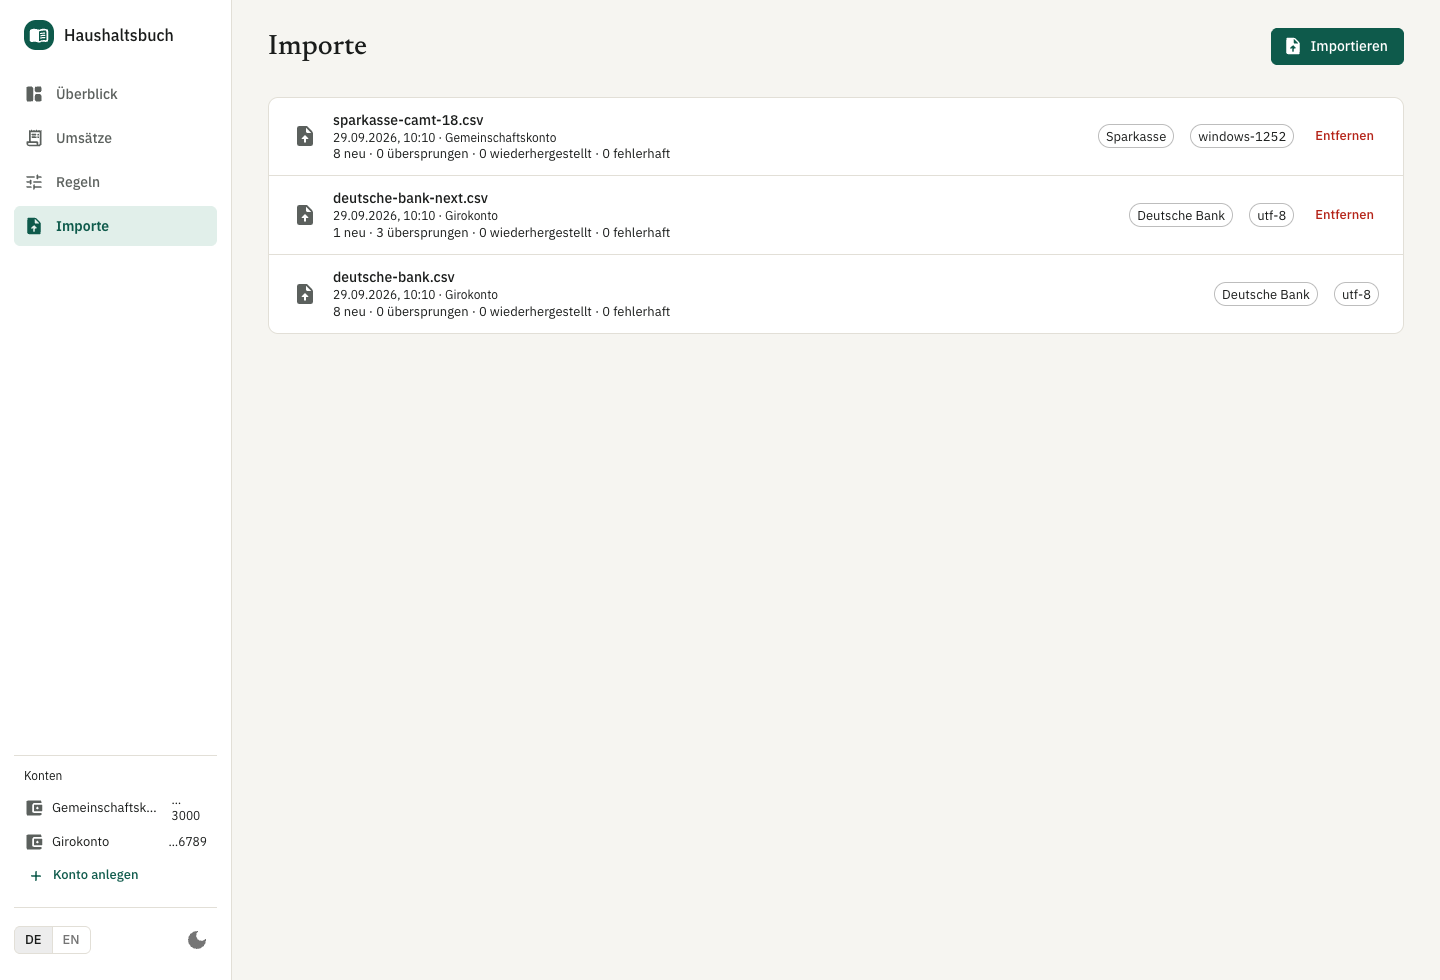
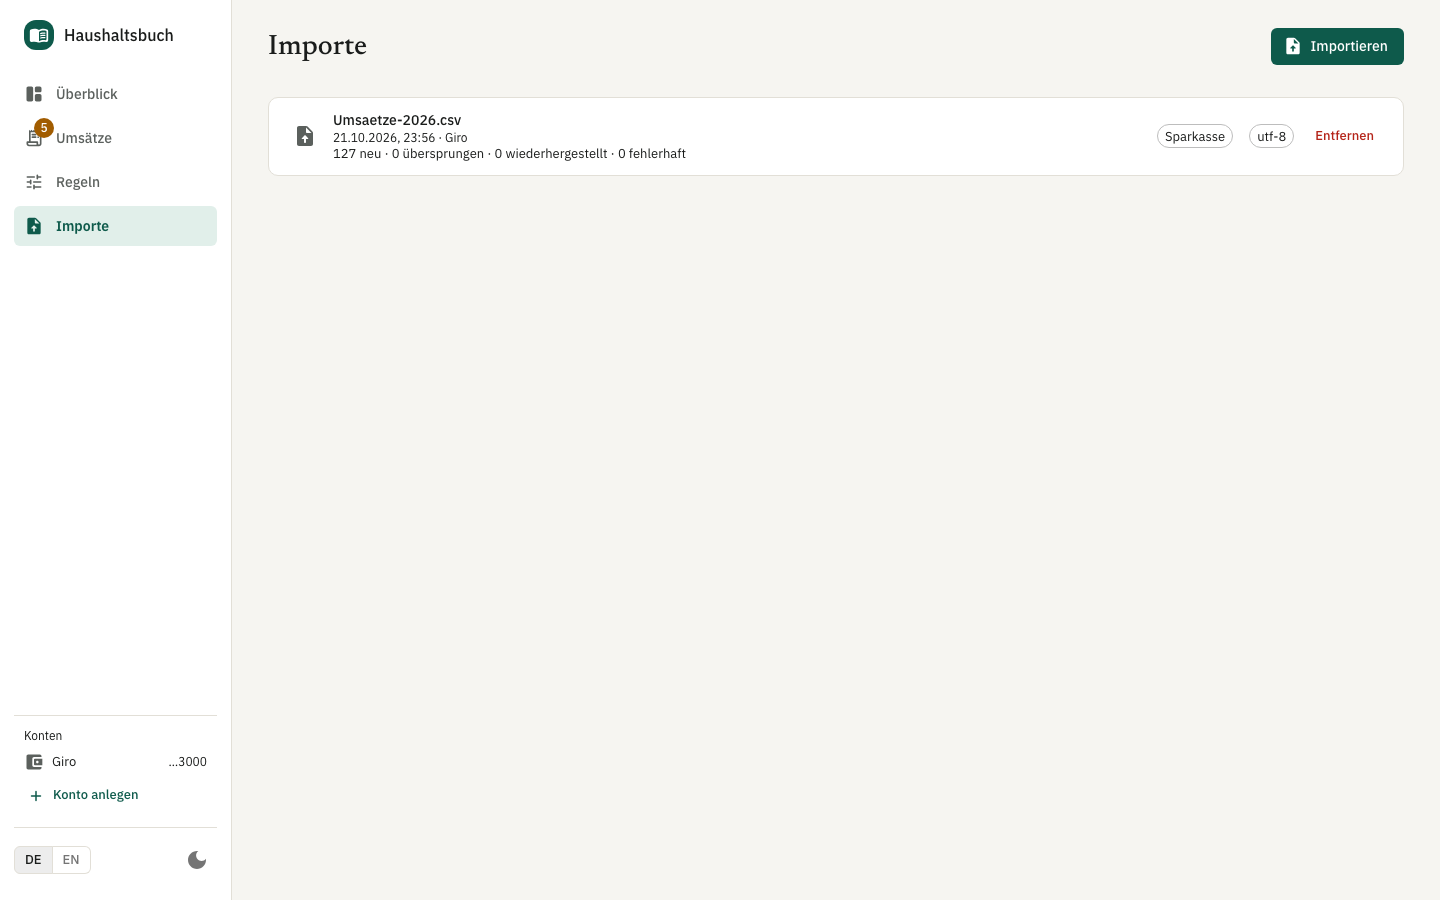
test(web): regenerate the README images from synthetic data
`pnpm docs:images` builds a six-month synthetic Sparkasse export at run time, imports it
through the UI, seeds categories, rules and limits through the API, and captures every
README image: the pages in light, dark, English and at phone width, plus an animated
demo (img2webp, skipped where it is not installed).

The old screenshots were taken by hand from nine fixture rows in one month, so the trend
and the budgets had almost nothing to show, and nothing could bring them up to date
after a UI change. The CSV is generated, never written to fixtures/ or committed. The
capture runs only with CAPTURE=1, so the suite and CI never pick it up.

diff --git a/apps/web/e2e/docs-images.capture.ts b/apps/web/e2e/docs-images.capture.ts
@@ -1,0 +1,290 @@
+import { execFileSync } from 'node:child_process';
+import { mkdirSync, writeFileSync } from 'node:fs';
+import { dirname, resolve } from 'node:path';
+import { fileURLToPath } from 'node:url';
+
+import { expect, type APIRequestContext, type Page, test } from '@playwright/test';
+
+/**
+ * Regenerates the README's screenshots and its animated demo: `pnpm docs:images`.
+ *
+ * Not part of the suite: a `.capture.ts` file, run only by the `docs-images` project, which
+ * exists only with `CAPTURE=1`. The data is a synthetic six-month Sparkasse export built
+ * below, never a real statement, and never written to `fixtures/` or committed — the images
+ * are the only output.
+ */
+
+const IMAGES = resolve(dirname(fileURLToPath(import.meta.url)), '../../../docs/images');
+const IBAN = 'DE89370400440532013000';
+
+const HEADER =
+  'Auftragskonto;"Buchungstag";"Valutadatum";"Buchungstext";"Verwendungszweck";"Glaeubiger ID";' +
+  '"Mandatsreferenz";"Kundenreferenz (End-to-End)";"Sammlerreferenz";"Lastschrift Ursprungsbetrag";' +
+  '"Auslagenersatz Ruecklastschrift";"Beguenstigter/Zahlungspflichtiger";"Kontonummer/IBAN";' +
+  '"BIC (SWIFT-Code)";"Betrag";"Waehrung";"Info";"Kategorie"';
+
+interface Booking {
+  readonly date: string;
+  readonly text: string;
+  readonly purpose: string;
+  readonly payee: string;
+  readonly cents: number;
+}
+
+/** Deterministic, so the images only change when the UI does. */
+function random(seed: number): () => number {
+  let state = seed;
+  return () => {
+    state = (state * 1_103_515_245 + 12_345) % 2_147_483_648;
+    return state / 2_147_483_648;
+  };
+}
+
+/** May to October 2026, up to the 20th of the last month: what an export on that day holds. */
+function bookings(): Booking[] {
+  const next = random(7);
+  const rows: Booking[] = [];
+  const add = (
+    month: number,
+    day: number,
+    text: string,
+    purpose: string,
+    payee: string,
+    cents: number,
+  ) => {
+    if (month === 10 && day > 20) {
+      return;
+    }
+    rows.push({
+      date: `${String(day).padStart(2, '0')}.${String(month).padStart(2, '0')}.26`,
+      text,
+      purpose,
+      payee,
+      cents,
+    });
+  };
+  for (let month = 5; month <= 10; month += 1) {
+    add(month, 1, 'DAUERAUFTRAG', 'Miete Hauptstraße 12', 'Hausverwaltung Süd GmbH', -115_000);
+    add(month, 3, 'LASTSCHRIFT', 'Abschlag Strom', 'Stadtwerke Musterstadt', -8_400);
+    add(month, 5, 'LASTSCHRIFT', 'Mobilfunk', 'Telekom Deutschland GmbH', -3_995);
+    add(month, 8, 'LASTSCHRIFT', 'Abo', 'Netflix International B.V.', -1_399);
+    // Written out the way SEPA text often is: the rule `Bäckerei` still finds it.
+    for (const day of [2, 6, 9, 13, 16, 20, 23, 27]) {
+      add(
+        month,
+        day,
+        'KARTENZAHLUNG',
+        'Einkauf Lebensmittel',
+        'REWE SAGT DANKE',
+        -(3_500 + Math.round(next() * 5_000)),
+      );
+      if (next() < 0.6) {
+        add(
+          month,
+          day,
+          'KARTENZAHLUNG',
+          'Einkauf',
+          'BAECKEREI SCHMIDT',
+          -(450 + Math.round(next() * 900)),
+        );
+      }
+    }
+    add(
+      month,
+      11,
+      'KARTENZAHLUNG',
+      'Tanken',
+      'Aral Station 0815',
+      -(5_500 + Math.round(next() * 2_500)),
+    );
+    add(
+      month,
+      18,
+      'KARTENZAHLUNG',
+      'Restaurant',
+      'Trattoria Da Marco',
+      -(3_800 + Math.round(next() * 4_000)),
+    );
+    if (month % 2 === 0) {
+      add(
+        month,
+        21,
+        'SEPA-UEBERWEISUNG',
+        'Fahrkarte',
+        'DB Fernverkehr AG',
+        -(4_990 + Math.round(next() * 6_000)),
+      );
+    }
+    add(
+      month,
+      15,
+      'KARTENZAHLUNG',
+      'Apotheke',
+      'Stern-Apotheke',
+      -(1_200 + Math.round(next() * 2_000)),
+    );
+    add(month, 27, 'LOHN/GEHALT', 'Gehalt', 'Beispiel AG', 295_000);
+  }
+  return rows.sort((a, b) =>
+    b.date.split('.').reverse().join().localeCompare(a.date.split('.').reverse().join()),
+  );
+}
+
+function amount(cents: number): string {
+  const sign = cents < 0 ? '-' : '';
+  const abs = Math.abs(cents);
+  const euros = Math.floor(abs / 100).toLocaleString('de-DE');
+  return `${sign}${euros},${String(abs % 100).padStart(2, '0')}`;
+}
+
+function demoCsv(): string {
+  const quote = (value: string) => `"${value}"`;
+  const lines = bookings().map((row) =>
+    [
+      IBAN,
+      ...[
+        row.date,
+        row.date,
+        row.text,
+        row.purpose,
+        '',
+        '',
+        '',
+        '',
+        '',
+        '',
+        row.payee,
+        '',
+        '',
+        amount(row.cents),
+        'EUR',
+        'Umsatz gebucht',
+        '',
+      ].map(quote),
+    ].join(';'),
+  );
+  return [HEADER, ...lines].join('\r\n') + '\r\n';
+}
+
+/** Category name → [rules typed as the user knows the payee, monthly limit in cents]. */
+const SETUP: ReadonlyArray<readonly [string, readonly string[], number]> = [
+  ['Wohnen', ['Hausverwaltung', 'Stadtwerke'], 125_000],
+  ['Lebensmittel', ['REWE', 'Bäckerei'], 50_000],
+  ['Verträge', ['Telekom', 'Netflix'], 6_000],
+  ['Mobilität', ['Aral', 'DB Fernverkehr'], 15_000],
+  ['Freizeit', ['Trattoria'], 6_000],
+  ['Gesundheit', ['Apotheke'], 3_000],
+];
+
+async function seedRulesAndBudgets(request: APIRequestContext): Promise<void> {
+  const month = '2026-10';
+  for (const [name, keywords, limit] of SETUP) {
+    const category = (await (await request.post('/api/categories', { data: { name } })).json()) as {
+      id: string;
+    };
+    for (const value of keywords) {
+      await request.post('/api/rules', {
+        data: { field: 'counterpartyName', operator: 'contains', value, categoryId: category.id },
+      });
+    }
+    for (const m of ['2026-08', '2026-09', month]) {
+      await request.put(`/api/budgets/${m}/${category.id}`, { data: { amountCents: limit } });
+    }
+  }
+  await request.post('/api/rules/apply');
+}
+
+/** One frame of the demo: the page as it stands, for `img2webp`. */
+async function frame(page: Page, frames: string[], dir: string): Promise<void> {
+  const path = resolve(dir, `${String(frames.length).padStart(2, '0')}.png`);
+  await page.screenshot({ path });
+  frames.push(path);
+}
+
+/** The frames as one animated WebP, each held for 1.6 s; skipped where img2webp is missing. */
+function animate(frames: readonly string[]): void {
+  try {
+    execFileSync('img2webp', [
+      '-loop',
+      '0',
+      '-lossy',
+      '-q',
+      '75',
+      '-d',
+      '1600',
+      ...frames,
+      '-o',
+      resolve(IMAGES, 'demo.webp'),
+    ]);
+  } catch {
+    console.warn('img2webp not found (brew install webp): demo.webp not updated');
+  }
+}
+
+test.use({ viewport: { width: 1440, height: 900 }, colorScheme: 'light' });
+
+test('captures the README images', async ({ page, request }, testInfo) => {
+  mkdirSync(IMAGES, { recursive: true });
+  const framesDir = testInfo.outputPath('frames');
+  mkdirSync(framesDir, { recursive: true });
+  const frames: string[] = [];
+  const csv = testInfo.outputPath('Umsaetze-2026.csv');
+  writeFileSync(csv, demoCsv());
+
+  // 1. First run, then the import: account, file, result.
+  await page.goto('/');
+  await frame(page, frames, framesDir);
+  await page.getByRole('button', { name: 'Importieren' }).click();
+  const dialog = page.getByRole('dialog', { name: 'CSV importieren' });
+  await dialog.getByLabel('IBAN').fill(IBAN);
+  await dialog.getByLabel('Bezeichnung').fill('Giro');
+  await dialog.getByRole('button', { name: 'Anlegen' }).click();
+  await dialog.getByLabel('CSV-Datei auswählen').setInputFiles(csv);
+  await expect(dialog.getByText(/importiert/u)).toBeVisible();
+  await frame(page, frames, framesDir);
+  await dialog.getByRole('button', { name: 'Schließen' }).click();
+
+  // 2. Nothing sorted yet.
+  await page.getByRole('navigation').getByRole('link', { name: 'Umsätze' }).click();
+  await expect(page.getByRole('main').getByRole('listitem').first()).toBeVisible();
+  await frame(page, frames, framesDir);
+
+  // 3. Rules and limits, then the month answered.
+  await seedRulesAndBudgets(request);
+  await page.getByRole('navigation').getByRole('link', { name: 'Regeln' }).click();
+  await page.reload();
+  await expect(page.getByRole('list', { name: 'Regeln' })).toBeVisible();
+  await page.getByRole('region', { name: 'Neue Regel' }).getByLabel('Suchbegriff').fill('Apotheke');
+  await frame(page, frames, framesDir);
+  await page.screenshot({ path: resolve(IMAGES, 'rules.png') });
+  await page.getByRole('region', { name: 'Neue Regel' }).getByLabel('Suchbegriff').fill('');
+
+  await page.getByRole('navigation').getByRole('link', { name: 'Überblick' }).click();
+  await expect(page.getByRole('figure', { name: 'Verlauf' })).toBeVisible();
+  await frame(page, frames, framesDir);
+  await page.screenshot({ path: resolve(IMAGES, 'overview.png') });
+
+  await page.getByRole('navigation').getByRole('link', { name: 'Umsätze' }).click();
+  await expect(page.getByRole('main').getByRole('listitem').first()).toBeVisible();
+  await page.screenshot({ path: resolve(IMAGES, 'transactions.png') });
+  await page.getByRole('navigation').getByRole('link', { name: 'Importe' }).click();
+  await expect(page.getByText('Umsaetze-2026.csv')).toBeVisible();
+  await page.screenshot({ path: resolve(IMAGES, 'imports.png') });
+
+  // 4. The same month in dark, in English, and on a phone.
+  await page.emulateMedia({ colorScheme: 'dark' });
+  await page.goto('/');
+  await expect(page.getByRole('figure', { name: 'Verlauf' })).toBeVisible();
+  await page.screenshot({ path: resolve(IMAGES, 'overview-dark.png') });
+  await frame(page, frames, framesDir);
+  await page.emulateMedia({ colorScheme: 'light' });
+  await page.getByRole('button', { name: 'EN', exact: true }).click();
+  await expect(page.getByRole('heading', { name: 'Budgets by category' })).toBeVisible();
+  await page.setViewportSize({ width: 390, height: 844 });
+  // Reloaded so the theme settles on light again before the shot, not mid-transition.
+  await page.reload();
+  await expect(page.getByRole('heading', { name: 'Budgets by category' })).toBeVisible();
+  await page.screenshot({ path: resolve(IMAGES, 'overview-mobile-en.png') });
+
+  animate(frames);
+});

diff --git a/apps/web/playwright.config.ts b/apps/web/playwright.config.ts
@@ -67,6 +67,10 @@ export default defineConfig({
       testMatch: 'deutsche-bank.spec.ts',
       dependencies: ['chromium'],
     },
+    // `pnpm docs:images` only: regenerates the README's images on a database of its own.
+    ...(process.env['CAPTURE'] === '1'
+      ? [{ name: 'docs-images', testMatch: '*.capture.ts', use: { ...devices['Desktop Chrome'] } }]
+      : []),
   ],
 
   webServer: [
